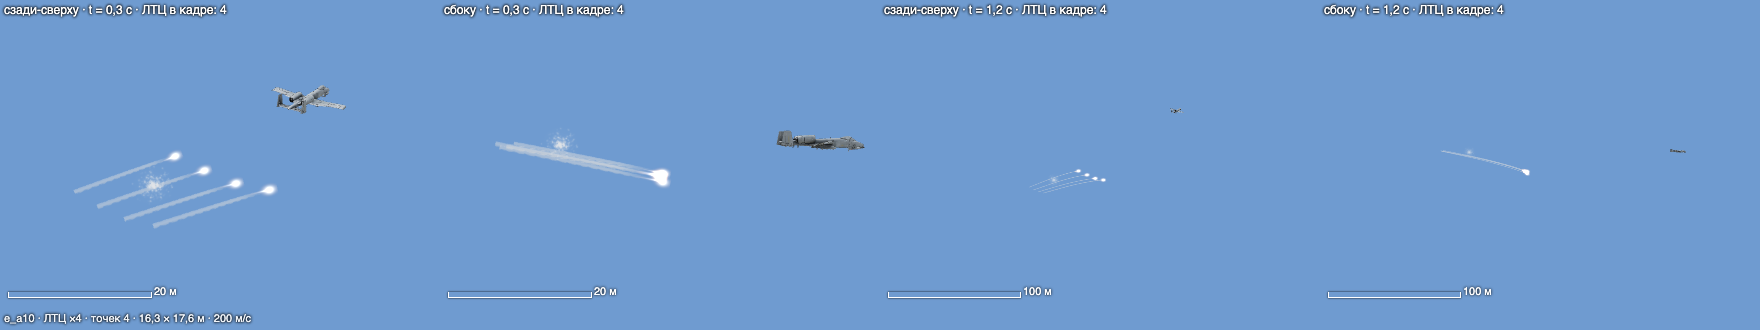
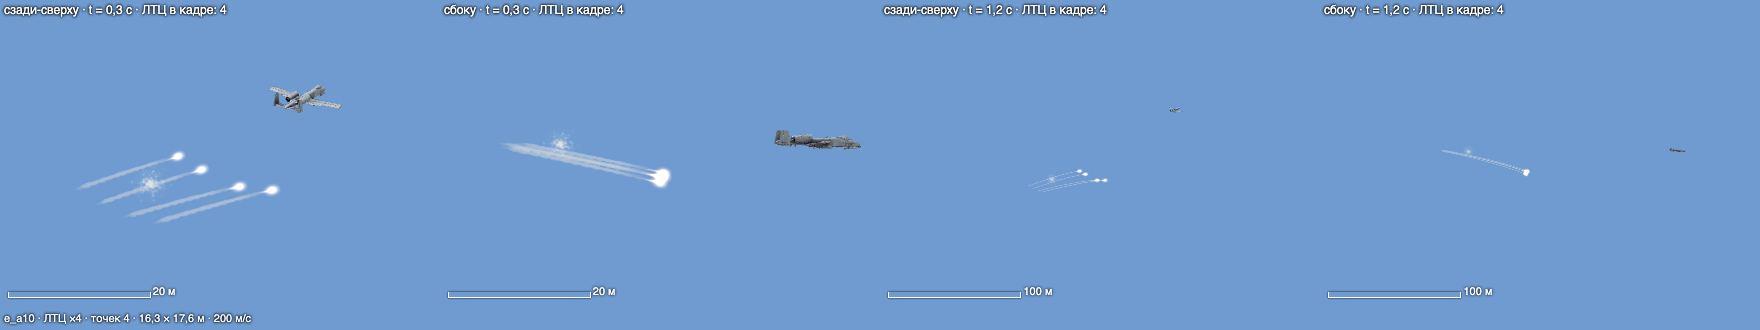
airdef: дым ЛТЦ — без разрыва после пламени, начало ленты сужается и проявляется, бока неровные с первых мгновений

diff --git a/fortuna-bot-web/games/airdef/plume.js b/fortuna-bot-web/games/airdef/plume.js
@@ -128,8 +128,11 @@ const SM_V = `#include <common>
   void main() {
     float age = max(0.0, uTime - aA.x), life = aB.y, f = clamp(age / life, 0.0, 1.0);
     vec3 p = position + uWind * age + vec3(0.0, aB.w * age, 0.0);          // снос ветром и всплытие тёплого дыма
-    float u = aB.z, sg = aSeed * 6.283, grow = smoothstep(0.0, 2.5, age);
-    float w = aA.z + aB.x * sqrt(age);                                       // турбулентная диффузия: ширина ∝ √t
+    // grow — клубы и изгиб: немного с первых мгновений (иначе молодая лента — ровная полоса с прямыми краями, Mark 2026-10-22)
+    float u = aB.z, sg = aSeed * 6.283, grow = 0.3 + 0.7 * smoothstep(0.0, 2.5, age);
+    // начало следа (точка пуска / отстрела) — не квадратный срез: первые ≈ 5 ширин лента сужается и проявляется
+    float st = smoothstep(0.0, max(aA.z * 5.0, 3.0), u);
+    float w = (aA.z + aB.x * sqrt(age)) * (0.35 + 0.65 * st);                // турбулентная диффузия: ширина ∝ √t
     w *= 1.0 + grow * (0.28 * sin(u * 0.9 / max(aA.z, 0.5) + sg) + 0.18 * sin(u * 0.37 / max(aA.z, 0.5) + 2.0 * sg)); // «клубы» по длине
     vec3 vd = normalize(cameraPosition - p), sd = cross(normalize(aTan), vd); float sl = length(sd);
     vec3 sn = sl > 1e-4 ? sd / sl : vec3(0.0, 1.0, 0.0);
@@ -140,7 +143,7 @@ const SM_V = `#include <common>
     // у сопла дым появляется не сразу (горячие газы прозрачны: aRamp — время, за которое ракета уходит от факела), к концу жизни тает; лента «ребром» к камере — бледнее (клубы-частицы её дополняют)
     // расплываясь, дым редеет: после первой секунды плотность ∝ (ширина в 1 с / ширина сейчас)^0,6 — дальние участки следа тают постепенно
     float dil = pow(clamp((aA.z + aB.x) / (aA.z + aB.x * sqrt(max(age, 1.0))), 0.0, 1.0), 0.6);
-    vAl = aA.w * smoothstep(0.0, aRamp, age) * pow(1.0 - f, 1.4) * dil * mix(0.35, 1.0, smoothstep(0.08, 0.5, sl));
+    vAl = aA.w * smoothstep(0.0, aRamp, age) * pow(1.0 - f, 1.4) * dil * st * mix(0.35, 1.0, smoothstep(0.08, 0.5, sl));
     float wt = aA.z + aB.x * sqrt(max(age, 0.15));                            // масштаб узора по длине: у сопла не растёт (иначе u·dw/w² при больших u рвёт текстуру в гребёнку)
     vUv = vec2(u / max(wt, 0.6) * 0.42 + aSeed * 7.0, aA.y * 0.5 + 0.5); vAge = age; vCol = aCol;
     #include <logdepthbuf_vertex>

diff --git a/fortuna-bot-web/AIRDEF_STATE.md b/fortuna-bot-web/AIRDEF_STATE.md
@@ -270,4 +270,4 @@ Mark работает с **Opus на высоком усилии** — он ру
 - 2026-10-21 · Sonnet 5.5 · своя модель Х-29Т (Mark: «пусть попробует соннет»; картинки Mark — два вида сбоку, спереди, сзади, окраска, `Свои/Х-29Т/1–7.png`): Blender по картинкам, масштаб — длина 3,896 м как у прежней модели; корпус вращением со швами (R 54 пикс. чертежа, Ø ≈ 0,39 м), купол головки (сферический сегмент по пунктиру чертежа), 4 крыла и 4 передних руля с наплывами крестом (±45°, как у прежней), элевоны, шарнирные площадки, лючки и гнёзда по обоим бортам, нижний кожух и проушины сверху, шаровые бобышки у корней крыльев; 4,7 тыс. тр., 151 КБ, 4 материала (K29_body / wing / ctrl / dark); сверка с чертежами — наложение силуэтов (бок IoU 0,96, вид сзади 0,87; вид спереди — смещён центр самого чертежа); prepare.js (`w_kh29t` → own/kh29t.glb, `nose: '-z'`), GLB_V `20261024b`, миниатюра wpn_kh29t, credits.js без Х-29Т в чужом наборе; стенд weapons-plume (факел из сопла — ок), игра «Съёмка» (на подвеске Су-25 — ок, оперение крестом, купол, швы); исходники — own/kh29t.blend, own/kh29t.glb, скрипты и README — own/kh29t-build/. Цвет — светлый серо-белый (как прежняя миниатюра и верхний образец на картинке 7); красная схема с картинок 6–7 — по слову Mark. Тесты — airdef-tester (ui, event, sim).
 - 2026-10-22 · Sonnet 5.5 · схема «два чата» для моделей оружия: набор сборщика (`tools/airdef-models/own/_kit/`), превью кандидата в игре без записи в репозиторий (`preview-candidate.js`), подмена модели одним скриптом (`integrate-own.js`, читает только ПАСПОРТ.json), пакет для Sketchfab делает сборщик (`sketchfab-pack.js`); версии собственных моделей — блок `GLB_V_OWN` в models.js; основному чату отдана только подмена. Х-29Т встроена (файл игры и миниатюра прежние). Не задеплоено (в `online-dev`): модель Х-29Т и блок `GLB_V_OWN` с прошлого деплоя 20261022s.
 - 2026-10-22 · Sonnet 5.5 · подмена модели Х-31П своей (из `Свои/Х-31П`, собрал сборщик): скрипт `integrate-own.js` (запуск в основном чате прошёл без ошибок), тесты ui, event, sim — с первого раза; скрипт теперь кладёт в репозиторий только минимальный паспорт (ключ, оружие, название, ревизия, имена файлов), даже если в папке модели он полнее. Пакеты для Sketchfab «Kh-29T» и «Kh-31P» собраны (`sketchfab-pack.js`) и лежат в `Свои/` — выкладывает Mark. Не задеплоено (в `online-dev`).
-- 2026-10-22 · Opus 5.5 · список Mark (2026-10-22): A-10 — точки подвески по низу пилонов модели (были на 0,45 м выше — в крыле; внутренняя пара стояла в гондоле шасси x 2,94 → пилон у корня крыла x 1,68; промежуточный вариант случайно попал в коммит Х-31П 45104d6), контейнер — на подфюзеляжный пилон (−0,57; был в крыле); свой Ту-95 — запись винтов tu95_loop и у двигателя игрока (drone/audio.js engLoops.tprop; раньше запись была только у голосов ИИ, свой — синтез); факел ракет разгорается за ≈ 0,35 с (plume.js makeFlame: длина 12 % → 100 %, ширина и свечение тоже); дымные ленты живут короче (MOTOR.life ≈ ×0,55) и редеют по мере расплывания (шейдер: плотность ∝ (ширина в 1 с / ширина)^0,6) — дальние участки тают, пока ракета летит, после попадания или сбития лента рассеивается сама; НАР — след тоньше (MOTOR.rocket w 5, g [0,2; 6], life [3; 25], факел len 14) и клубы ≤ 1,5 м; взрыв малых зарядов (НАР, size < 0,6) — без записи дальнего раската, инфранизкого толчка и эха; ЛТЦ — «капля» шейдером (cmfx.js VS_FLARE/FS_FLARE: круглая белая головка, хвост назад по скорости — конусом сужается и гаснет экспоненциально, неровная кромка, лёгкая закрутка, без мерцания и без среза в дым (Mark: «резко и ровно обрезается»), к концу горения гаснет и мельчает; хвост тусклее головки — днём не пересвечен; fx/flare.png больше не грузится; лента дыма 3,5 с, густеет за 0,4 с — MOTOR.ramp); оружие, НАР и ЗУР — краска «в эксплуатации» шейдером (models.js wearMat: пятна, потёки вдоль корпуса, неровный блик, полуматовая эмаль вместо глянца). Снимки ЛТЦ: tools/airdef-fx/shots/cm-e_a10.png, cm-e_su25.png (сумерки)
+- 2026-10-22 · Opus 5.5 · список Mark (2026-10-22): A-10 — точки подвески по низу пилонов модели (были на 0,45 м выше — в крыле; внутренняя пара стояла в гондоле шасси x 2,94 → пилон у корня крыла x 1,68; промежуточный вариант случайно попал в коммит Х-31П 45104d6), контейнер — на подфюзеляжный пилон (−0,57; был в крыле); свой Ту-95 — запись винтов tu95_loop и у двигателя игрока (drone/audio.js engLoops.tprop; раньше запись была только у голосов ИИ, свой — синтез); факел ракет разгорается за ≈ 0,35 с (plume.js makeFlame: длина 12 % → 100 %, ширина и свечение тоже); дымные ленты живут короче (MOTOR.life ≈ ×0,55) и редеют по мере расплывания (шейдер: плотность ∝ (ширина в 1 с / ширина)^0,6) — дальние участки тают, пока ракета летит, после попадания или сбития лента рассеивается сама; НАР — след тоньше (MOTOR.rocket w 5, g [0,2; 6], life [3; 25], факел len 14) и клубы ≤ 1,5 м; взрыв малых зарядов (НАР, size < 0,6) — без записи дальнего раската, инфранизкого толчка и эха; ЛТЦ — «капля» шейдером (cmfx.js VS_FLARE/FS_FLARE: круглая белая головка, хвост назад по скорости — конусом сужается и гаснет экспоненциально, неровная кромка, лёгкая закрутка, без мерцания и без среза в дым (Mark: «резко и ровно обрезается»), к концу горения гаснет и мельчает; хвост тусклее головки — днём не пересвечен; fx/flare.png больше не грузится; лента дыма 3,5 с, густеет за 0,1 с — MOTOR.ramp); у всех дымных лент начало следа сужается и проявляется на первых ≈ 5 ширинах (не квадратный срез), клубы и изгиб слегка видны с первых мгновений (молодая лента — не ровная полоса); оружие, НАР и ЗУР — краска «в эксплуатации» шейдером (models.js wearMat: пятна, потёки вдоль корпуса, неровный блик, полуматовая эмаль вместо глянца). Снимки ЛТЦ: tools/airdef-fx/shots/cm-e_a10.png, cm-e_su25.png (сумерки)
